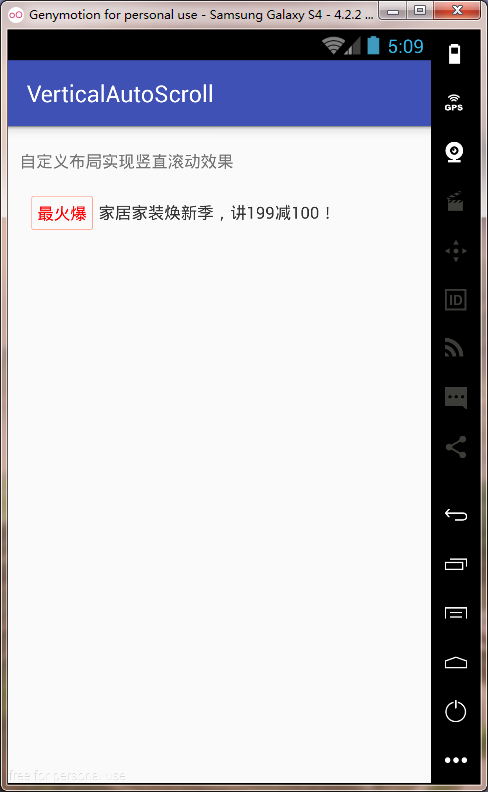
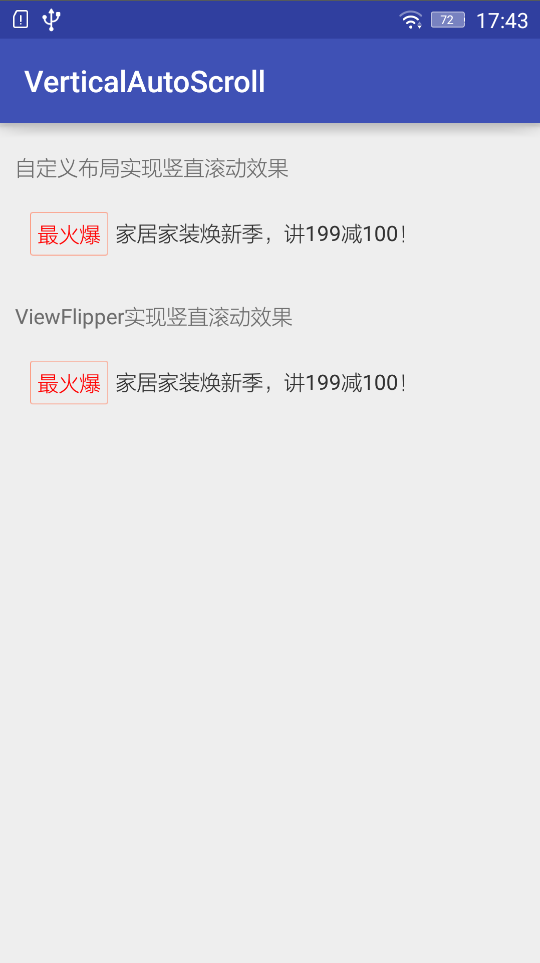
modify readme.md

Changed region(s): [[0.0, 0.0, 1.0, 1.0], [0.5225, 0.3636, 0.7377, 0.4242]]

diff --git a/README.md b/README.md
@@ -15,26 +15,40 @@ Vertical auto scroll View. 仿京东，淘宝，竖直自动轮播view。
 # 使用方式
 
 1、在xml中使用，如下：
-	<com.xyzlf.vertical.autoscroll.VerticalScrollView
+
+	<!-- 自定义布局实现 -->
+    <com.xyzlf.vertical.autoscroll.VerticalScrollView
         android:id="@+id/vertical_scroll_view"
         android:layout_width="match_parent"
         android:layout_height="wrap_content"
         custom:intervalDuration="4000"
         custom:animDuration="1000"/>
 
+	<!-- ViewFlipper实现 -->
+    <ViewFlipper
+        android:id="@+id/flipper"
+        android:layout_width="match_parent"
+        android:layout_height="50dp"
+        android:flipInterval="4000"
+        android:inAnimation="@anim/push_up_in"
+        android:outAnimation="@anim/push_up_out">
+	<!-- 在这里添加view即可，比较简单 -->
+	</ViewFlipper>
+
 
 2、代码中使用：
-	List<ItemData> datas = new ArrayList<>();
-        datas.add(new ItemData("瑞士维氏军刀 新品满200-50","最新"));
-        datas.add(new ItemData("家居家装焕新季，讲199减100！","最火爆"));
-        datas.add(new ItemData("带上相机去春游，尼康低至477","HOT"));
-        datas.add(new ItemData("价格惊呆！电信千兆光纤上市","new"));
 
-        final MyScrollAdapter adapter = new MyScrollAdapter(datas);
-        final VerticalScrollView tbView = (VerticalScrollView) findViewById(R.id.vertical_scroll_view);
-        tbView.setAdapter(adapter);
-        //开启线程滚东
-        tbView.start();
+	List<ItemData> datas = new ArrayList<>();
+	datas.add(new ItemData("瑞士维氏军刀 新品满200-50","最新"));
+	datas.add(new ItemData("家居家装焕新季，讲199减100！","最火爆"));
+	datas.add(new ItemData("带上相机去春游，尼康低至477","HOT"));
+	datas.add(new ItemData("价格惊呆！电信千兆光纤上市","new"));
+	
+	final MyScrollAdapter adapter = new MyScrollAdapter(datas);
+	final VerticalScrollView tbView = (VerticalScrollView) findViewById(R.id.vertical_scroll_view);
+	tbView.setAdapter(adapter);
+	//开启线程滚东
+	tbView.start();
 
 3、Adapter需要继承 **VerticalScrollAdapter<T>**，完整Adapter代码如下：
 
